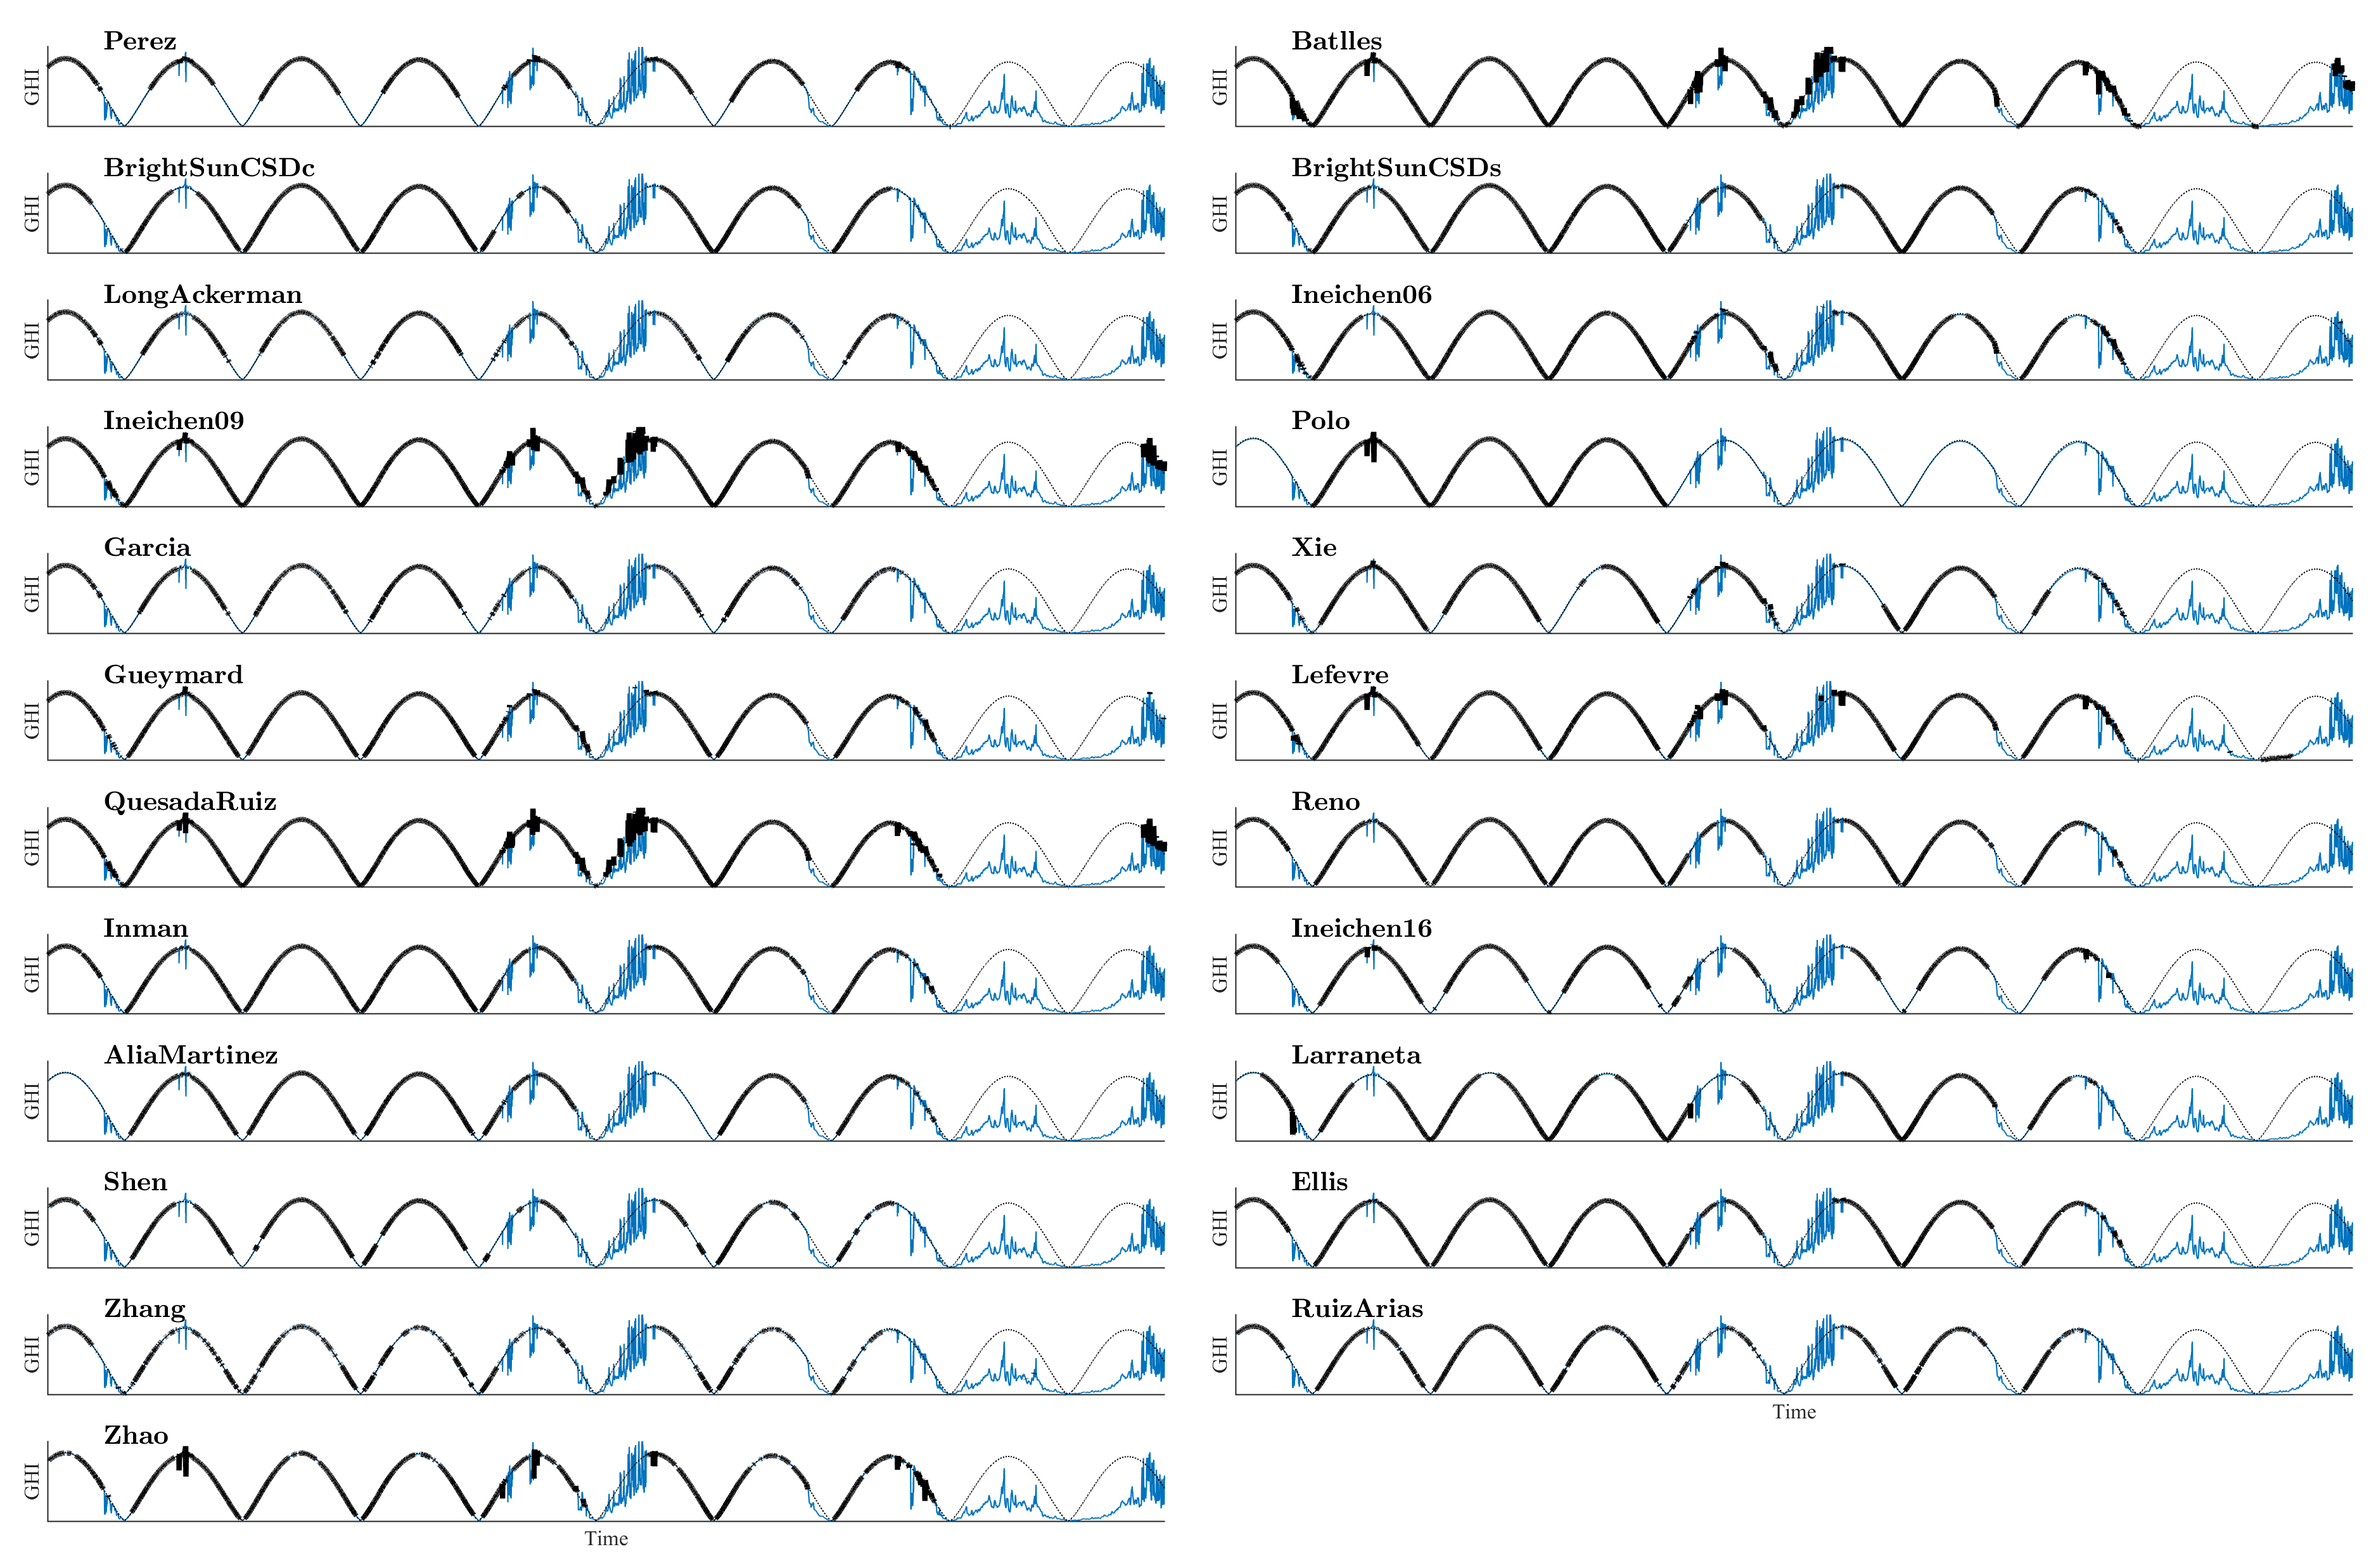
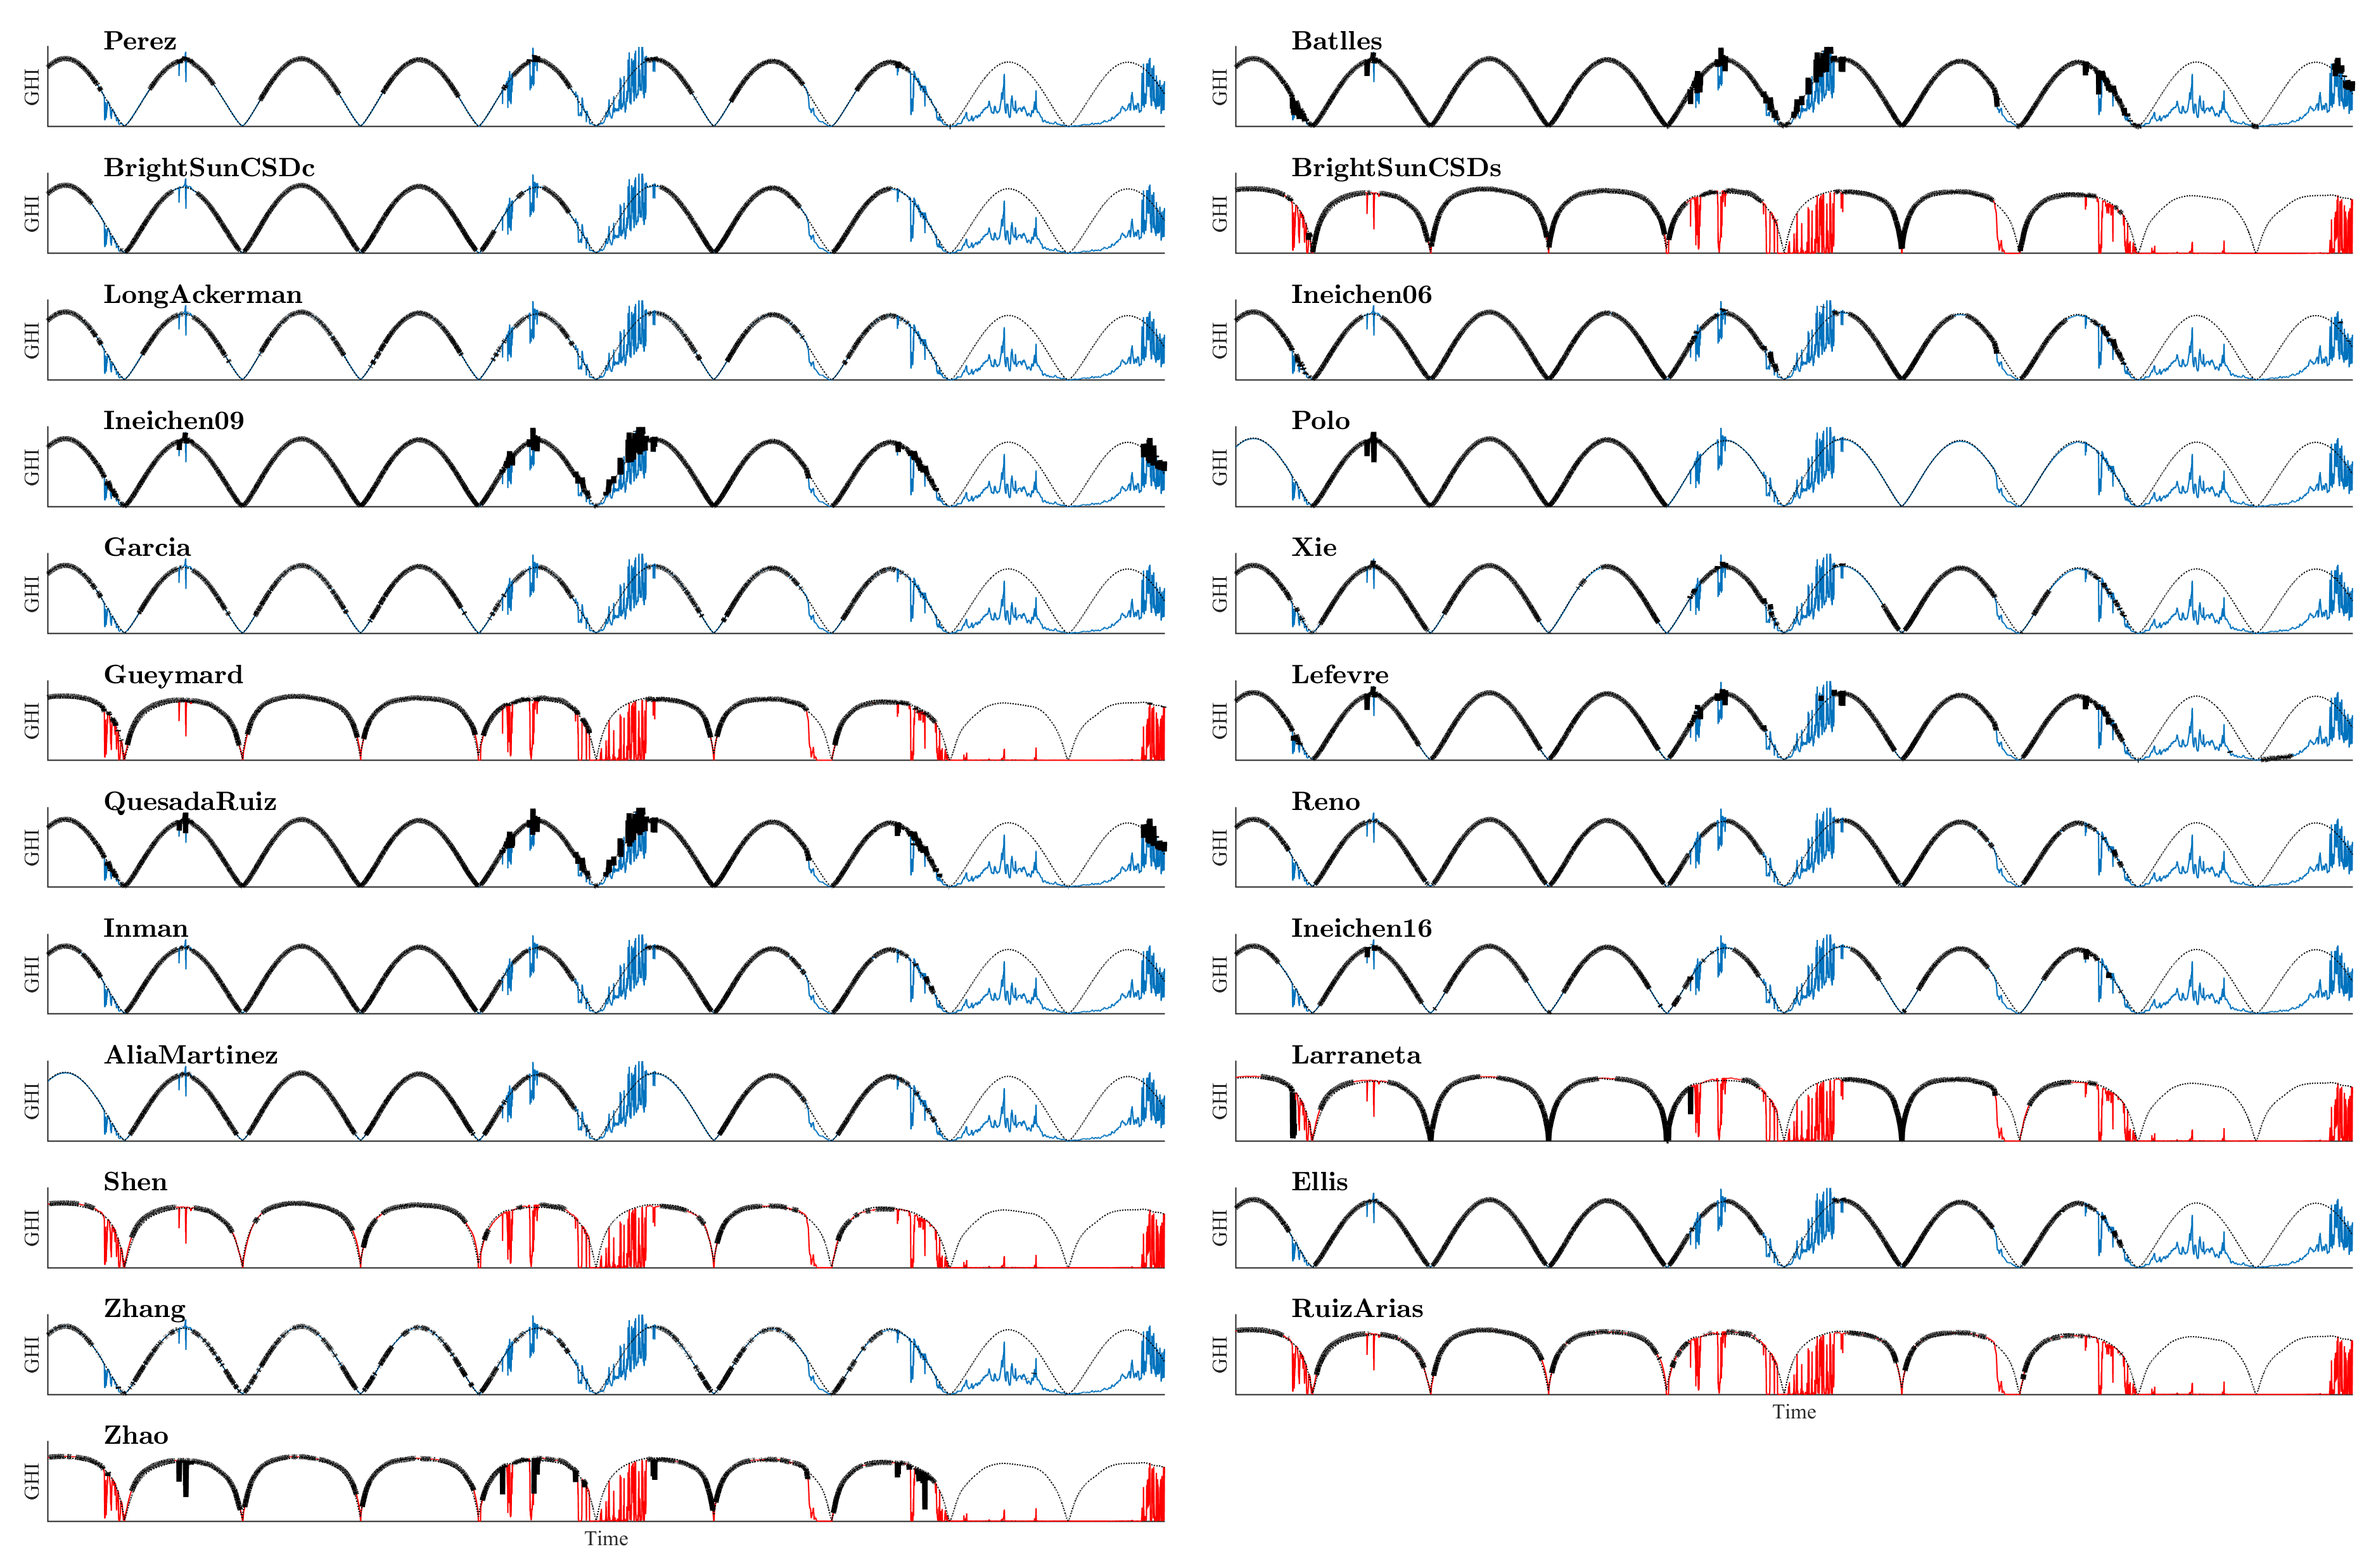
updated the image to differentiate between CSDc and CSDs

diff --git a/Example.m b/Example.m
@@ -144,5 +144,5 @@ for i =1:length(methods)
     set(gca,'FontName','Times')
 end
 
-% print('Example_output.PNG','-dpng','-r300')
+print('Example_output.PNG','-dpng','-r300')
 
